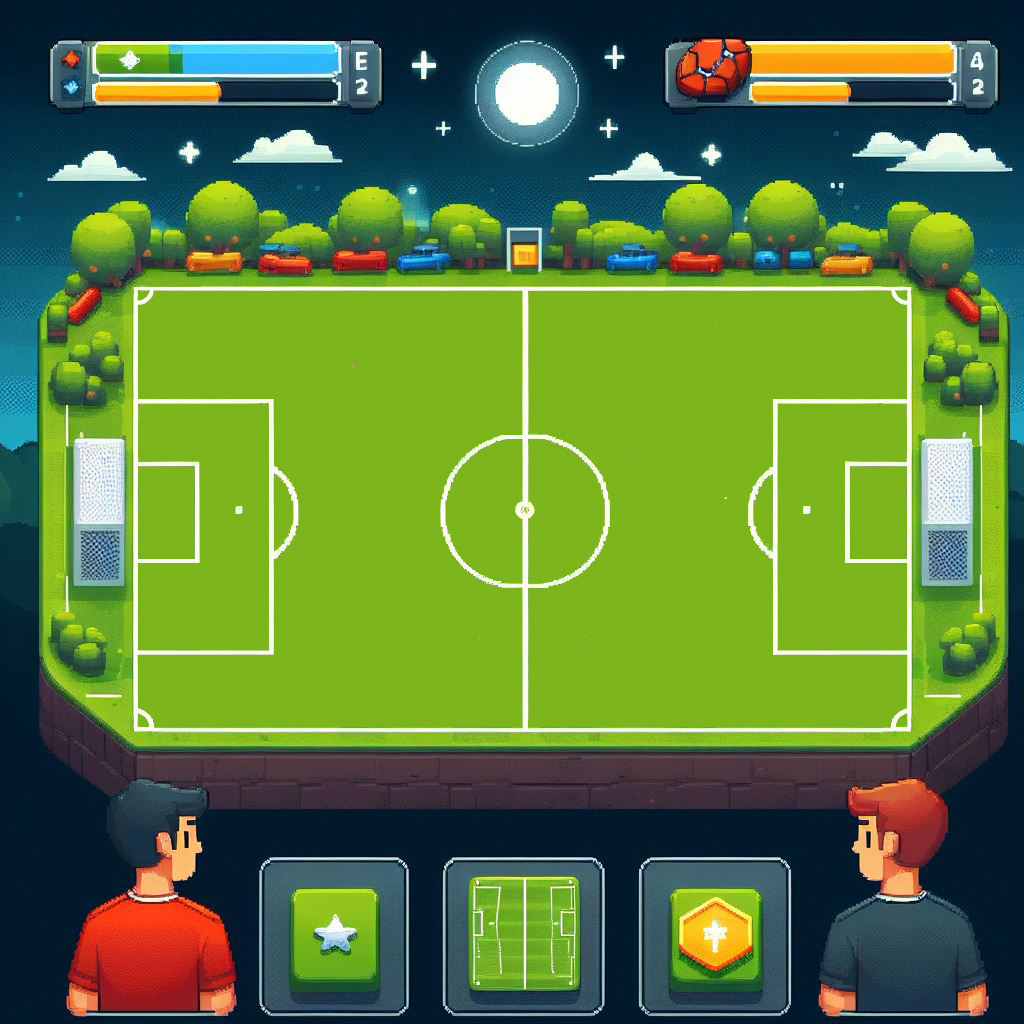
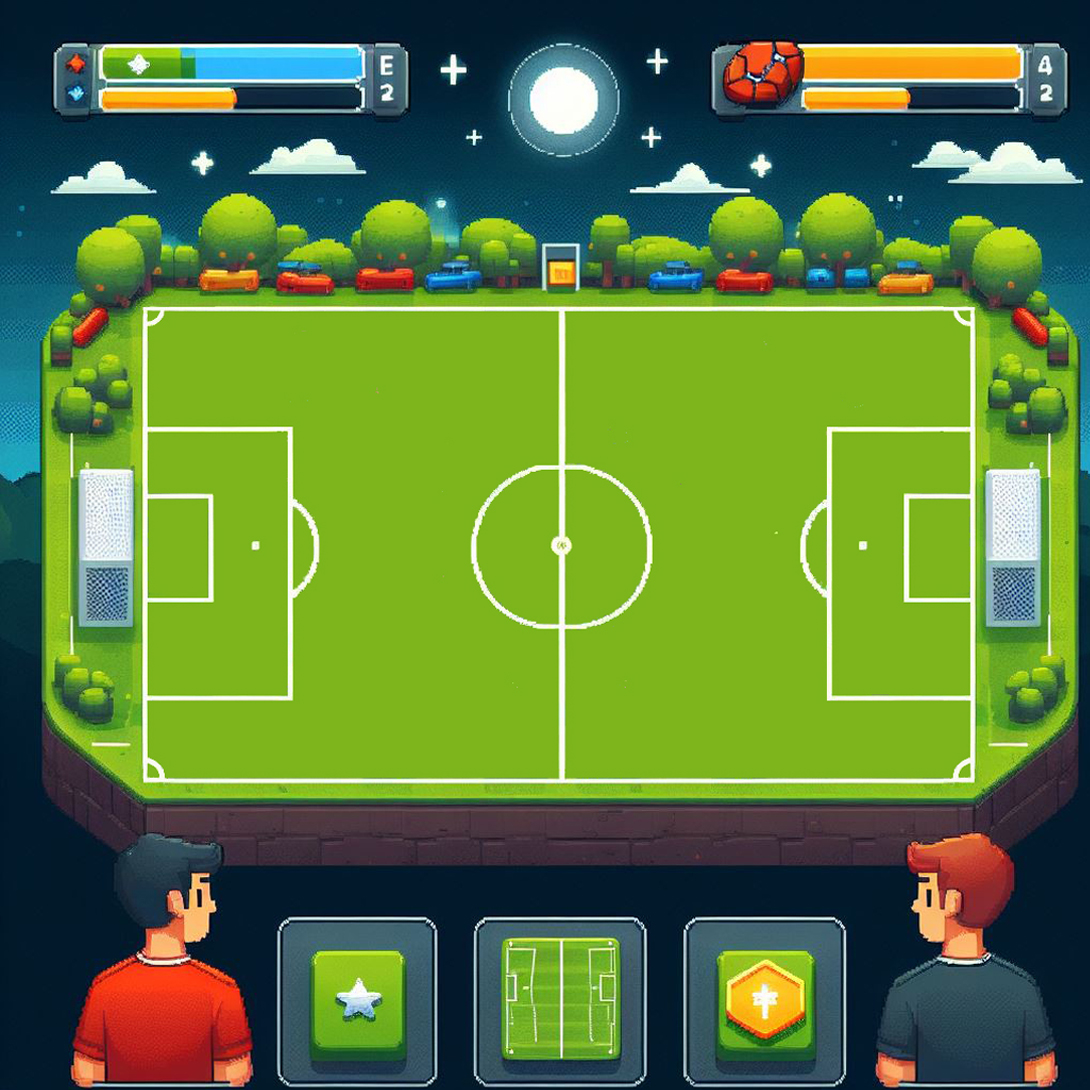
dotted

diff --git a/src/Home.jsx b/src/Home.jsx
@@ -17,7 +17,7 @@ function Home() {
           justifyContent: "center",
           alignItems: "center",
           backgroundImage: `url(${background})`,
-          width: "1046px",
+          width: "1100px",
           height: "1020px",
         }}
       >
@@ -69,7 +69,7 @@ function Home() {
           <div className="pitch_block_light">
             <img
               src={require("./images/cb_standing_right.png")}
-              width={"50px"}
+              className="player_avatar_right"
             />
             {showCoordinates && <div className="coordinates">A12</div>}
           </div>
@@ -93,7 +93,14 @@ function Home() {
             {showCoordinates && <div className="coordinates">B02</div>}
           </div>
           <div className="pitch_block_light">
-            <img src={require("./images/cb_standing.png")} width={"50px"} />
+            <img
+              src={require("./images/cb_standing.png")}
+              className="player_avatar_left"
+            />
+            <img
+              src={require("./images/cb_standing_right.png")}
+              className="player_avatar_right"
+            />
             {showCoordinates && <div className="coordinates">B03</div>}
           </div>
           <div className="pitch_block_light">

diff --git a/src/Home.css b/src/Home.css
@@ -16,6 +16,14 @@
   height: 450px;
 }
 
+.player_avatar_right {
+  width: 50px;
+}
+
+.player_avatar_left {
+  width: 50px;
+}
+
 .coordinates {
   position: absolute;
   font-size: small;
@@ -26,16 +34,18 @@
 
 .pitch_block_light {
   display: flex;
-  flex-direction: column;
   justify-content: center;
-  align-items: center;
+  align-items: flex-end;
   /* background-color: rgba(0, 0, 0, 0.5);
   border-width: 1px;
-  border-color: black;
-  border-style: solid;
-  box-sizing: border-box; */
-  width: 50px;
-  height: 50px;
+  
+  border-style: solid; */
+  border-color: rgba(0, 0, 0, 0.06);
+  border-width: 1px;
+  border-style: dashed;
+  box-sizing: border-box;
+  width: 70px;
+  height: 70px;
 }
 
 .pitch_block_dark {
